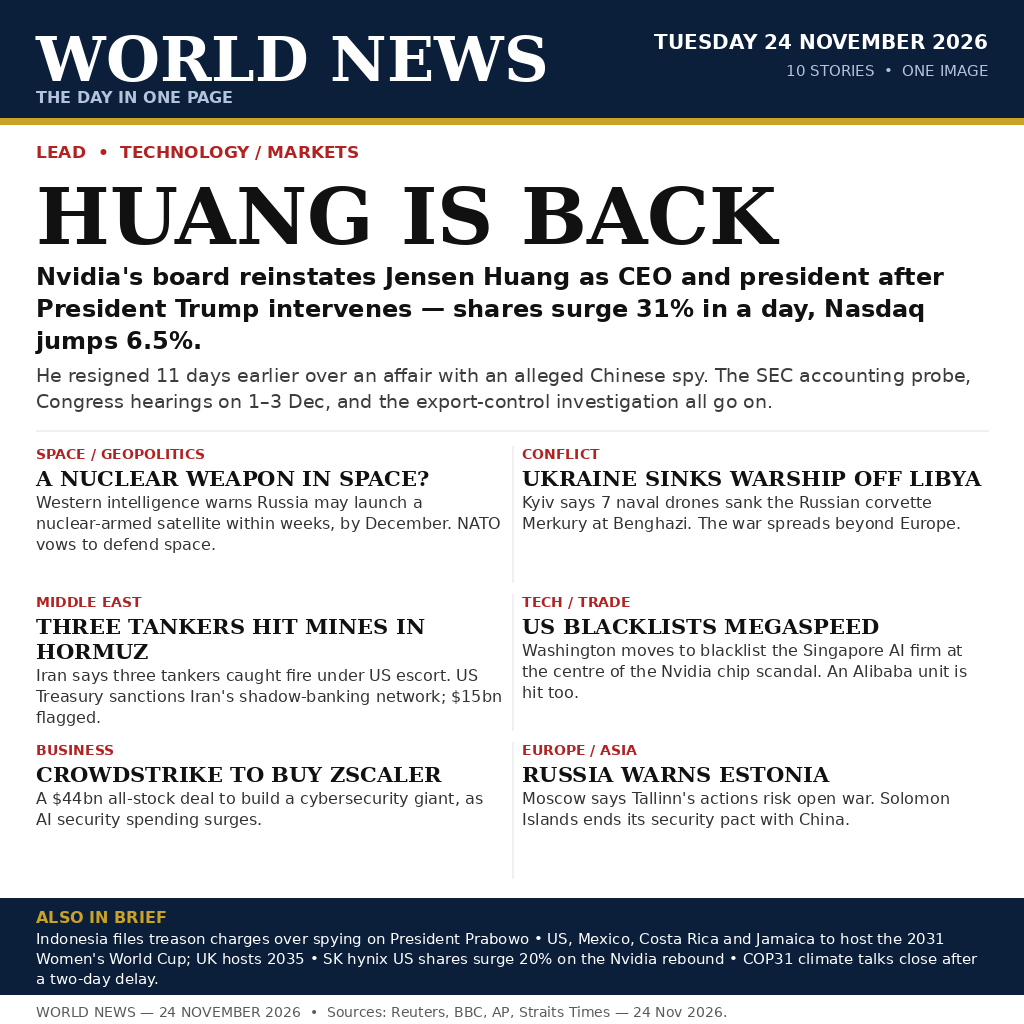
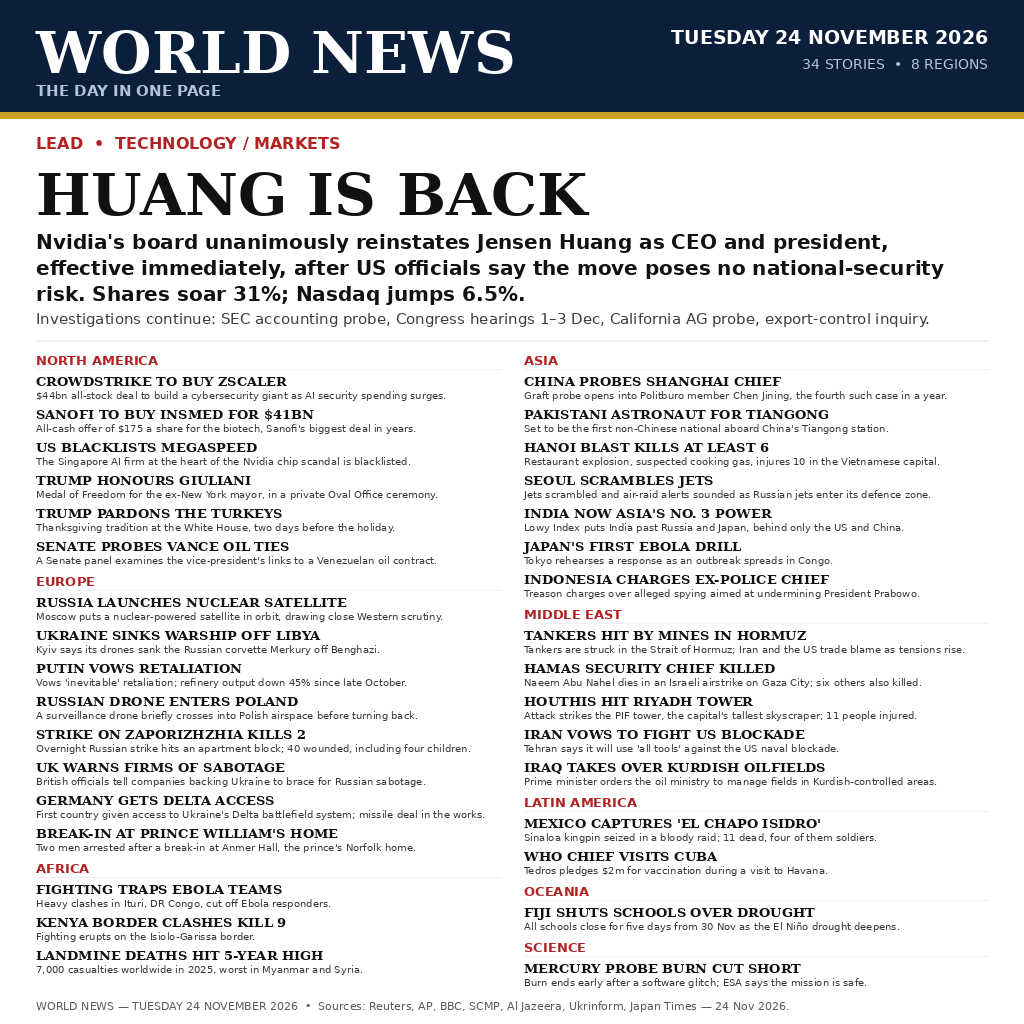
v2: 34 stories across 8 regions for 24 Nov 2026
- Lead: Huang reinstated, Nvidia +31%, Nasdaq +6.5%
- 33 more stories grouped by region (NA 6, Europe 8, Asia 7,
  Middle East 5, Africa 3, LatAm 2, Oceania 1, Science 1)
- Fixes v1 date errors: drops 23 Nov WWC hosts, 22 Nov COP31
  collapse, contested Hormuz tanker count

Changed region(s): [[0.0, 0.0312, 1.0, 1.0]]

diff --git a/make_poster.py b/make_poster.py
@@ -1,6 +1,9 @@
 #!/usr/bin/env python3
-"""Build the 1024x1024 news poster for make.fun news-image-20261124.
-Deterministic: same input -> same PNG bytes (fixed palette, no timestamps).
+"""Build the 1024x1024 news poster for make.fun news-image-20261124 (v2).
+
+34 stories from Tuesday 24 November 2026, grouped by region.
+Deterministic: same input -> same PNG bytes (fixed palette, fixed fonts,
+no timestamps, no randomness, no network).
 """
 from PIL import Image, ImageDraw, ImageFont
 
@@ -9,6 +12,7 @@ NAVY = (11, 31, 58)
 RED = (178, 34, 34)
 INK = (17, 17, 17)
 GREY = (90, 90, 90)
+BODY = (55, 55, 55)
 LIGHT = (238, 240, 243)
 GOLD = (201, 162, 39)
 
@@ -40,81 +44,162 @@ def para(draw, x, y, text, fnt, max_w, leading, color=INK):
         y += leading
     return y
 
+def fit(draw, text, fnt, max_w):
+    """Truncate to one line with an ellipsis if too wide (deterministic)."""
+    if draw.textlength(text, font=fnt) <= max_w:
+        return text
+    ell = "…"
+    while text and draw.textlength(text + ell, font=fnt) > max_w:
+        text = text[:-1]
+    return text + ell
+
 img = Image.new("RGB", (W, H), "white")
 d = ImageDraw.Draw(img)
 
 # Masthead
-d.rectangle([0, 0, W, 118], fill=NAVY)
-d.text((36, 22), "WORLD NEWS", font=font(SERIF_B, 62), fill="white")
-d.text((36, 88), "THE DAY IN ONE PAGE", font=font(SANS_B, 16), fill=(180, 195, 220))
-d.text((1024 - 36 - d.textlength("TUESDAY 24 NOVEMBER 2026", font=font(SANS_B, 20)), 30),
-       "TUESDAY 24 NOVEMBER 2026", font=font(SANS_B, 20), fill="white")
-d.text((1024 - 36 - d.textlength("10 STORIES  •  ONE IMAGE", font=font(SANS, 15)), 62),
-       "10 STORIES  •  ONE IMAGE", font=font(SANS, 15), fill=(180, 195, 220))
-d.rectangle([0, 118, W, 124], fill=GOLD)
+d.rectangle([0, 0, W, 112], fill=NAVY)
+d.text((36, 18), "WORLD NEWS", font=font(SERIF_B, 58), fill="white")
+d.text((36, 82), "THE DAY IN ONE PAGE", font=font(SANS_B, 15), fill=(180, 195, 220))
+d.text((1024 - 36 - d.textlength("TUESDAY 24 NOVEMBER 2026", font=font(SANS_B, 19)), 26),
+       "TUESDAY 24 NOVEMBER 2026", font=font(SANS_B, 19), fill="white")
+d.text((1024 - 36 - d.textlength("34 STORIES  •  8 REGIONS", font=font(SANS, 14)), 56),
+       "34 STORIES  •  8 REGIONS", font=font(SANS, 14), fill=(180, 195, 220))
+d.rectangle([0, 112, W, 118], fill=GOLD)
 
 # Lead story
-y = 142
-d.text((36, y), "LEAD  •  TECHNOLOGY / MARKETS", font=font(SANS_B, 17), fill=RED)
-y += 28
-d.text((36, y), "HUANG IS BACK", font=font(SERIF_B, 78), fill=INK)
-y += 92
+y = 134
+d.text((36, y), "LEAD  •  TECHNOLOGY / MARKETS", font=font(SANS_B, 16), fill=RED)
+y += 26
+d.text((36, y), "HUANG IS BACK", font=font(SERIF_B, 58), fill=INK)
+y += 70
 y = para(d, 36, y,
-         "Nvidia's board reinstates Jensen Huang as CEO and president "
-         "after President Trump intervenes — shares surge 31% in a day, "
-         "Nasdaq jumps 6.5%.",
-         font(SANS_B, 24), 952, 32)
-y += 6
+         "Nvidia's board unanimously reinstates Jensen Huang as CEO and president, "
+         "effective immediately, after US officials say the move poses no national-security "
+         "risk. Shares soar 31%; Nasdaq jumps 6.5%.",
+         font(SANS_B, 20), 952, 26)
+y += 2
 y = para(d, 36, y,
-         "He resigned 11 days earlier over an affair with an alleged Chinese spy. "
-         "The SEC accounting probe, Congress hearings on 1–3 Dec, and the export-control "
-         "investigation all go on.",
-         font(SANS, 19), 952, 26, color=(60, 60, 60))
-d.line([36, y + 14, 988, y + 14], fill=LIGHT, width=2)
+         "Investigations continue: SEC accounting probe, Congress hearings 1–3 Dec, California AG probe, export-control inquiry.",
+         font(SANS, 15), 952, 20, color=(60, 60, 60))
+d.line([36, y + 10, 988, y + 10], fill=LIGHT, width=2)
 
-# Grid: 2 cols x 3 rows
-stories = [
-    ("SPACE / GEOPOLITICS", "A NUCLEAR WEAPON IN SPACE?",
-     "Western intelligence warns Russia may launch a nuclear-armed satellite within weeks, by December. NATO vows to defend space."),
-    ("CONFLICT", "UKRAINE SINKS WARSHIP OFF LIBYA",
-     "Kyiv says 7 naval drones sank the Russian corvette Merkury at Benghazi. The war spreads beyond Europe."),
-    ("MIDDLE EAST", "THREE TANKERS HIT MINES IN HORMUZ",
-     "Iran says three tankers caught fire under US escort. US Treasury sanctions Iran's shadow-banking network; $15bn flagged."),
-    ("TECH / TRADE", "US BLACKLISTS MEGASPEED",
-     "Washington moves to blacklist the Singapore AI firm at the centre of the Nvidia chip scandal. An Alibaba unit is hit too."),
-    ("BUSINESS", "CROWDSTRIKE TO BUY ZSCALER",
-     "A $44bn all-stock deal to build a cybersecurity giant, as AI security spending surges."),
-    ("EUROPE / ASIA", "RUSSIA WARNS ESTONIA",
-     "Moscow says Tallinn's actions risk open war. Solomon Islands ends its security pact with China."),
+# Region grid: 2 columns
+LEFT = [
+    ("NORTH AMERICA", [
+        ("CROWDSTRIKE TO BUY ZSCALER",
+         "$44bn all-stock deal to build a cybersecurity giant as AI security spending surges."),
+        ("SANOFI TO BUY INSMED FOR $41BN",
+         "All-cash offer of $175 a share for the biotech, Sanofi's biggest deal in years."),
+        ("US BLACKLISTS MEGASPEED",
+         "The Singapore AI firm at the heart of the Nvidia chip scandal is blacklisted."),
+        ("TRUMP HONOURS GIULIANI",
+         "Medal of Freedom for the ex-New York mayor, in a private Oval Office ceremony."),
+        ("TRUMP PARDONS THE TURKEYS",
+         "Thanksgiving tradition at the White House, two days before the holiday."),
+        ("SENATE PROBES VANCE OIL TIES",
+         "A Senate panel examines the vice-president's links to a Venezuelan oil contract."),
+    ]),
+    ("EUROPE", [
+        ("RUSSIA LAUNCHES NUCLEAR SATELLITE",
+         "Moscow puts a nuclear-powered satellite in orbit, drawing close Western scrutiny."),
+        ("UKRAINE SINKS WARSHIP OFF LIBYA",
+         "Kyiv says its drones sank the Russian corvette Merkury off Benghazi."),
+        ("PUTIN VOWS RETALIATION",
+         "Vows 'inevitable' retaliation; refinery output down 45% since late October."),
+        ("RUSSIAN DRONE ENTERS POLAND",
+         "A surveillance drone briefly crosses into Polish airspace before turning back."),
+        ("STRIKE ON ZAPORIZHZHIA KILLS 2",
+         "Overnight Russian strike hits an apartment block; 40 wounded, including four children."),
+        ("UK WARNS FIRMS OF SABOTAGE",
+         "British officials tell companies backing Ukraine to brace for Russian sabotage."),
+        ("GERMANY GETS DELTA ACCESS",
+         "First country given access to Ukraine's Delta battlefield system; missile deal in the works."),
+        ("BREAK-IN AT PRINCE WILLIAM'S HOME",
+         "Two men arrested after a break-in at Anmer Hall, the prince's Norfolk home."),
+    ]),
+    ("AFRICA", [
+        ("FIGHTING TRAPS EBOLA TEAMS",
+         "Heavy clashes in Ituri, DR Congo, cut off Ebola responders."),
+        ("KENYA BORDER CLASHES KILL 9",
+         "Fighting erupts on the Isiolo-Garissa border."),
+        ("LANDMINE DEATHS HIT 5-YEAR HIGH",
+         "7,000 casualties worldwide in 2025, worst in Myanmar and Syria."),
+    ]),
 ]
-gx, gy = 36, y + 30
-col_w, row_h = 466, 148
-for i, (kicker, head, body) in enumerate(stories):
-    x = gx + (i % 2) * (col_w + 20)
-    yy = gy + (i // 2) * row_h
-    d.text((x, yy), kicker, font=font(SANS_B, 14), fill=RED)
-    yy += 20
-    yy = para(d, x, yy, head, font(SERIF_B, 21), col_w, 25)
-    yy += 2
-    para(d, x, yy, body, font(SANS, 16), col_w, 21, color=(50, 50, 50))
-    if i % 2 == 0:
-        d.line([x + col_w + 10, gy + (i // 2) * row_h, x + col_w + 10, gy + (i // 2) * row_h + row_h - 12],
-               fill=LIGHT, width=2)
 
-# Also in brief
-by = gy + 3 * row_h + 8
-d.rectangle([0, by, W, by + 96], fill=NAVY)
-d.text((36, by + 10), "ALSO IN BRIEF", font=font(SANS_B, 16), fill=GOLD)
-para(d, 36, by + 32,
-     "Indonesia files treason charges over spying on President Prabowo  •  "
-     "US, Mexico, Costa Rica and Jamaica to host the 2031 Women's World Cup; UK hosts 2035  •  "
-     "SK hynix US shares surge 20% on the Nvidia rebound  •  COP31 climate talks close after a two-day delay.",
-     font(SANS, 15), 952, 20, color="white")
+RIGHT = [
+    ("ASIA", [
+        ("CHINA PROBES SHANGHAI CHIEF",
+         "Graft probe opens into Politburo member Chen Jining, the fourth such case in a year."),
+        ("PAKISTANI ASTRONAUT FOR TIANGONG",
+         "Set to be the first non-Chinese national aboard China's Tiangong station."),
+        ("HANOI BLAST KILLS AT LEAST 6",
+         "Restaurant explosion, suspected cooking gas, injures 10 in the Vietnamese capital."),
+        ("SEOUL SCRAMBLES JETS",
+         "Jets scrambled and air-raid alerts sounded as Russian jets enter its defence zone."),
+        ("INDIA NOW ASIA'S NO. 3 POWER",
+         "Lowy Index puts India past Russia and Japan, behind only the US and China."),
+        ("JAPAN'S FIRST EBOLA DRILL",
+         "Tokyo rehearses a response as an outbreak spreads in Congo."),
+        ("INDONESIA CHARGES EX-POLICE CHIEF",
+         "Treason charges over alleged spying aimed at undermining President Prabowo."),
+    ]),
+    ("MIDDLE EAST", [
+        ("TANKERS HIT BY MINES IN HORMUZ",
+         "Tankers are struck in the Strait of Hormuz; Iran and the US trade blame as tensions rise."),
+        ("HAMAS SECURITY CHIEF KILLED",
+         "Naeem Abu Nahel dies in an Israeli airstrike on Gaza City; six others also killed."),
+        ("HOUTHIS HIT RIYADH TOWER",
+         "Attack strikes the PIF tower, the capital's tallest skyscraper; 11 people injured."),
+        ("IRAN VOWS TO FIGHT US BLOCKADE",
+         "Tehran says it will use 'all tools' against the US naval blockade."),
+        ("IRAQ TAKES OVER KURDISH OILFIELDS",
+         "Prime minister orders the oil ministry to manage fields in Kurdish-controlled areas."),
+    ]),
+    ("LATIN AMERICA", [
+        ("MEXICO CAPTURES 'EL CHAPO ISIDRO'",
+         "Sinaloa kingpin seized in a bloody raid; 11 dead, four of them soldiers."),
+        ("WHO CHIEF VISITS CUBA",
+         "Tedros pledges $2m for vaccination during a visit to Havana."),
+    ]),
+    ("OCEANIA", [
+        ("FIJI SHUTS SCHOOLS OVER DROUGHT",
+         "All schools close for five days from 30 Nov as the El Niño drought deepens."),
+    ]),
+    ("SCIENCE", [
+        ("MERCURY PROBE BURN CUT SHORT",
+         "Burn ends early after a software glitch; ESA says the mission is safe."),
+    ]),
+]
+
+ITEM_H = 33
+SEC_H = 21
+COL_W = 464
+gy = y + 22
+
+def draw_column(x, sections):
+    yy = gy
+    for title, items in sections:
+        d.text((x, yy), title, font=font(SANS_B, 13), fill=RED)
+        d.line([x, yy + 17, x + COL_W, yy + 17], fill=LIGHT, width=1)
+        yy += SEC_H
+        for head, body in items:
+            d.text((x, yy), fit(d, head, font(SERIF_B, 13), COL_W),
+                   font=font(SERIF_B, 13), fill=INK)
+            d.text((x, yy + 16), fit(d, body, font(SANS, 10), COL_W),
+                   font=font(SANS, 10), fill=BODY)
+            yy += ITEM_H
+        yy += 2
+    return yy
+
+end_left = draw_column(36, LEFT)
+end_right = draw_column(524, RIGHT)
 
 # Footer
-fy = by + 96 + 10
-d.text((36, fy), "WORLD NEWS — 24 NOVEMBER 2026  •  Sources: Reuters, BBC, AP, Straits Times — 24 Nov 2026.",
-       font=font(SANS, 14), fill=GREY)
+fy = max(end_left, end_right) + 4
+d.text((36, fy),
+       "WORLD NEWS — TUESDAY 24 NOVEMBER 2026  •  Sources: Reuters, AP, BBC, SCMP, Al Jazeera, Ukrinform, Japan Times — 24 Nov 2026.",
+       font=font(SANS, 11), fill=GREY)
 
 img.save("entry.png", format="PNG", optimize=True)
 print("saved entry.png", img.size)
